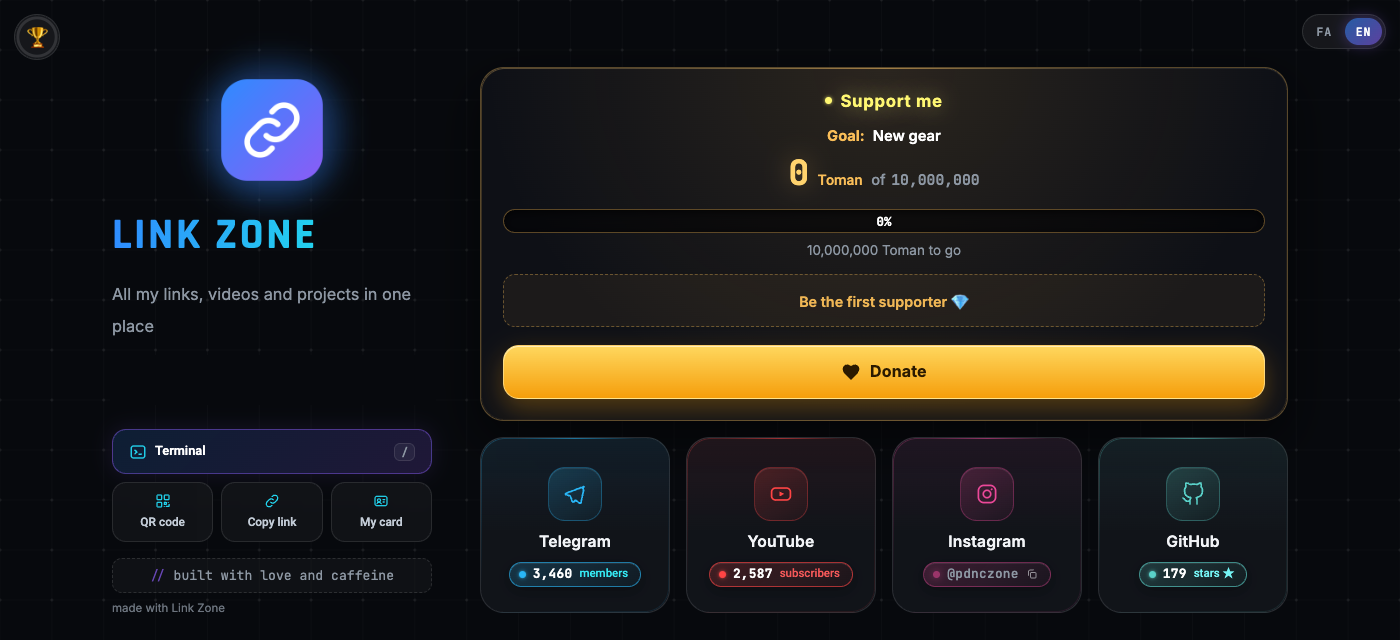
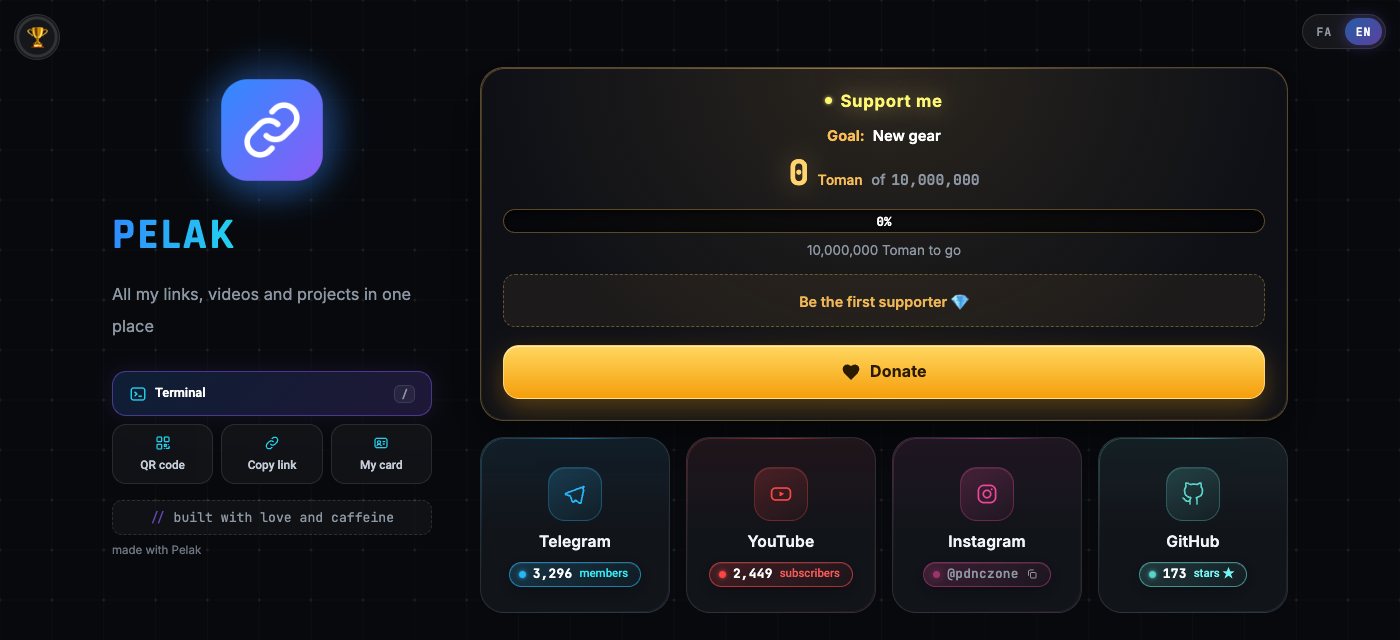
Rename to Pelak

diff --git a/src/worker.js b/src/worker.js
@@ -1,4 +1,4 @@
-// Link Zone — Copyright (c) 2026 PDNC. PolyForm Strict 1.0.0, see LICENSE.md and LICENSE-PERMISSIONS.md
+// Pelak — Copyright (c) 2026 PDNC. PolyForm Strict 1.0.0, see LICENSE.md and LICENSE-PERMISSIONS.md
 // One Cloudflare Worker. Settings live in ../site.config.js
 import SITE from "../site.config.js";
 import HTML from "./home.html";
@@ -1165,7 +1165,7 @@ async function tgApi(token, method, body) {
   }
 }
 async function tgWebhookSecret(token) {
-  const buf = await crypto.subtle.digest("SHA-256", new TextEncoder().encode(token + ":link-zone-webhook"));
+  const buf = await crypto.subtle.digest("SHA-256", new TextEncoder().encode(token + ":pelak-webhook"));
   return [...new Uint8Array(buf)].map((b) => b.toString(16).padStart(2, "0")).join("");
 }
 var tgN = (n) => Number(n || 0).toLocaleString("en-US");
@@ -2224,7 +2224,7 @@ async function handlePendingText(env, ctx, msg) {
 // ===== daily backup / restore =====
 // ---------- daily backup & restore ----------
 async function buildBackup(env) {
-  const out = { app: "link-zone", version: 1, at: new Date().toISOString(), keys: {} };
+  const out = { app: "pelak", version: 1, at: new Date().toISOString(), keys: {} };
   let cursor;
   do {
     const l = await env.STATS_KV.list(cursor ? { cursor } : {});
@@ -2245,7 +2245,7 @@ async function sendBackup(env) {
   const fd = new FormData();
   fd.append("chat_id", chat);
   fd.append("caption", "💾 بکاپ روزانه " + SITE.name + "\n" + Object.keys(b.keys).length + " کلید · " + Math.round(body.length / 1024) + " KB\nبرای بازگردانی: تنظیمات ← بازگردانی بکاپ");
-  fd.append("document", new Blob([body], { type: "application/json" }), "link-zone-backup-" + b.at.slice(0, 10) + ".json");
+  fd.append("document", new Blob([body], { type: "application/json" }), "pelak-backup-" + b.at.slice(0, 10) + ".json");
   try {
     const r = await fetch("https://api.telegram.org/bot" + token + "/sendDocument", { method: "POST", body: fd, signal: AbortSignal.timeout(2e4) });
     return await r.json();
@@ -2278,7 +2278,7 @@ async function restoreFromDocument(env, doc) {
   } catch (e) {
     return { err: "این فایل JSON معتبر نیست." };
   }
-  if (!b || b.app !== "link-zone" || !b.keys) return { err: "این فایل بکاپ این سایت نیست." };
+  if (!b || b.app !== "pelak" || !b.keys) return { err: "این فایل بکاپ این سایت نیست." };
   await env.STATS_KV.put("tg:restore", JSON.stringify(b), { expirationTtl: 3600 });
   return { b };
 }
@@ -3299,7 +3299,7 @@ async function fetchGitHub(env) {
   }
 }
 async function fetchGitHubApi(env) {
-  const headers = { "User-Agent": "link-zone/1.0", "Accept": "application/vnd.github+json" };
+  const headers = { "User-Agent": "pelak/1.0", "Accept": "application/vnd.github+json" };
   const ghToken = getEnv(env, "GITHUB_TOKEN");
   if (ghToken) headers["Authorization"] = "Bearer " + ghToken;
   let total = 0;

diff --git a/public/app.js b/public/app.js
@@ -1,4 +1,4 @@
-// Link Zone — Copyright (c) 2026 PDNC. See LICENSE.md and LICENSE-PERMISSIONS.md
+// Pelak — Copyright (c) 2026 PDNC. See LICENSE.md and LICENSE-PERMISSIONS.md
 (function(){
   // Settings come from site.config.js (the server puts them in window.SITE)
   var SITE = window.SITE;
@@ -604,7 +604,7 @@
   var OPEN_TARGETS = SITE.links.map(function(l){ return l.id; }).concat(off('project') ? [] : ['project']);
   var TERM_ALIAS = { tg: 'telegram', yt: 'youtube', ig: 'instagram', gh: 'github' };
   var TERM_HELP = [
-    ['help', 'show this list'], ['whoami', 'who is behind this zone'], ['links', 'all my links'],
+    ['help', 'show this list'], ['whoami', 'who is behind this page'], ['links', 'all my links'],
     ['stats', 'live numbers: members, subscribers, stars'], ['latest', 'latest YouTube videos'],
     ['posts', 'latest Telegram posts'], ['project', 'featured project'],
     ['open <name>', 'open a link: ' + OPEN_TARGETS.join(', ')],
@@ -718,7 +718,7 @@
         ['GitHub', statsData ? num(statsData.github) + ' stars' : '…'],
         ['Language', lang], ['Uptime', secs + 's (this session)']
       ];
-      termLine(SITE.user + '@zone', 'hl');
+      termLine(SITE.user + '@pelak', 'hl');
       termLine('---------', 'dim');
       for (var i = 0; i < rows.length; i++) termLine([{ t: pad(rows[i][0], 10), c: 'ok' }, rows[i][1]]);
     },
@@ -1149,7 +1149,7 @@
     var steps = [
       function(){ return '<span class="hl">' + esc(SITE.name) + '</span> bootloader v1.0'; },
       function(){ return OK + 'loaded kernel modules'; },
-      function(){ return OK + 'mounted /dev/zone'; },
+      function(){ return OK + 'mounted /dev/pelak'; },
       function(){ return OK + 'started network: tunnel0 up' + (ME && safeTag(ME.colo) ? ' via ' + safeTag(ME.colo) : ''); },
       function(){ return OK + 'resolving ' + esc(location.host) + (ME && safeTag(ME.country) ? ' for ' + safeTag(ME.country) : '') + ' ...'; },
       function(){ return OK + 'reached target: <span class="hl">welcome</span>'; }

diff --git a/site.config.js b/site.config.js
@@ -8,8 +8,8 @@
 // ─────────────────────────────────────────────────────────────────────────────
 export default {
   // ── Who you are ──
-  name: "LINK ZONE", //           big title, browser tab, share preview
-  shortName: "LINKS", //          name under the icon when installed on a phone
+  name: "PELAK", //           big title, browser tab, share preview
+  shortName: "Pelak", //          name under the icon when installed on a phone
   tagline: {
     fa: "اینجا همهی لینکها، ویدیوها و پروژههای من یکجا جمع شده",
     en: "All my links, videos and projects in one place"
@@ -20,7 +20,7 @@ export default {
   },
   signature: "built with love and caffeine", // small line at the bottom of the side bar
   cardSubtitle: "LINKS · VIDEOS · CODE", //     line on the visitor card image
-  showCredit: true, //            small "made with Link Zone" link; false removes it
+  showCredit: true, //            small "made with Pelak" link; false removes it
 
   // ── Languages ──
   languages: ["fa", "en"], //     ["fa"] or ["en"] for a single language (hides the switch)
@@ -81,7 +81,7 @@ export default {
   },
   hubCountry: "DE", //     lines on the globe fly to this country (two-letter code)
   hubLabel: "HQ",
-  terminalUser: "guest", // shown as guest@zone in the terminal
+  terminalUser: "guest", // shown as guest@pelak in the terminal
 
   // ── Optional ──
   securityContact: "" //   "mailto:you@example.com" or "https://t.me/you", used in /.well-known/security.txt

diff --git a/src/home.html b/src/home.html
@@ -104,7 +104,7 @@
         </button>
       </div>
       <div class="sig"><span class="rem">//</span> {{signature}}</div>
-      <a class="credit" href="https://github.com/pdnczone/link-zone" target="_blank" rel="noopener">made with Link Zone</a>
+      <a class="credit" href="https://github.com/pdnczone/pelak" target="_blank" rel="noopener">made with Pelak</a>
     </footer>
     </div>
 
@@ -313,7 +313,7 @@
     <div class="term-bar">
       <button type="button" class="term-dot r" id="termClose" aria-label="Close terminal"></button>
       <i class="term-dot y"></i><i class="term-dot g"></i>
-      <span class="term-title">{{terminalUser}}@zone: ~</span>
+      <span class="term-title">{{terminalUser}}@pelak: ~</span>
     </div>
     <div class="term-out" id="termOut" role="log" aria-live="polite"></div>
     <form class="term-in" id="termForm" autocomplete="off">

diff --git a/public/grid.js b/public/grid.js
@@ -1,4 +1,4 @@
-// Link Zone — Copyright (c) 2026 PDNC. See LICENSE.md and LICENSE-PERMISSIONS.md
+// Pelak — Copyright (c) 2026 PDNC. See LICENSE.md and LICENSE-PERMISSIONS.md
 (function(){
   var canvas = document.getElementById('kinetic-grid');
   var ctx = canvas.getContext('2d');

diff --git a/public/style.css b/public/style.css
@@ -1,4 +1,4 @@
-/* Link Zone — Copyright (c) 2026 PDNC. See LICENSE.md and LICENSE-PERMISSIONS.md */
+/* Pelak — Copyright (c) 2026 PDNC. See LICENSE.md and LICENSE-PERMISSIONS.md */
 :root{
   --bg: #07090d;
   --accent-1: #2f8bff;

diff --git a/LICENSE-PERMISSIONS.md b/LICENSE-PERMISSIONS.md
@@ -1,39 +1,39 @@
-# Link Zone: additional permissions
+# Pelak: additional permissions
 
 Copyright (c) 2026 PDNC (https://github.com/pdnczone). All rights reserved except as granted below.
 
-Link Zone is licensed under the [PolyForm Strict License 1.0.0](LICENSE.md). The licensor, PDNC, also grants you the permissions below. They add to that license, and everything it does not allow stays forbidden.
+Pelak is licensed under the [PolyForm Strict License 1.0.0](LICENSE.md). The licensor, PDNC, also grants you the permissions below. They add to that license, and everything it does not allow stays forbidden.
 
 ## You may
 
-1. **Run your own page.** Use Link Zone to run a link page for yourself, your channel, your project or your own business, including a page that has a donation card, advertisements or links to things you sell.
+1. **Run your own page.** Use Pelak to run a link page for yourself, your channel, your project or your own business, including a page that has a donation card, advertisements or links to things you sell.
 2. **Personalise it.** For that page, change only these:
    - `site.config.js`, and `wrangler.jsonc` to set the worker name, bindings and domain
    - the images `public/logo.png` and `public/og.png`
    - the tips in `public/tips.js`
    - settings and secrets in your Cloudflare account
 3. **Keep your copy on GitHub.** Keep a copy made with the Deploy button, the template button or a fork, public or private, so that your page can be deployed. Keep `LICENSE.md` and this file in it, unchanged.
-4. **Update.** Merge newer versions of Link Zone into your copy.
+4. **Update.** Merge newer versions of Pelak into your copy.
 5. **Contribute.** Change the code in a fork for the sole purpose of testing it and sending it to this repository as a pull request.
 
 ## You may not, without written permission from PDNC
 
-- sell, rent, sublicense or charge for Link Zone or any part of it
-- sell the setup, hosting or customisation of Link Zone, or offer it to others as a paid or free service
+- sell, rent, sublicense or charge for Pelak or any part of it
+- sell the setup, hosting or customisation of Pelak, or offer it to others as a paid or free service
 - change any other file, or make and use a modified version, other than for a pull request
-- publish or share Link Zone or a modified version anywhere else, or under another name
+- publish or share Pelak or a modified version anywhere else, or under another name
 - remove or change the license files or the copyright notice
 - use the name, logo or branding of PDNC in a way that suggests PDNC made or endorses your page
 
-The "made with Link Zone" link may be turned off with `showCredit: false`.
+The "made with Pelak" link may be turned off with `showCredit: false`.
 
 ## Asking for permission
 
-Open an issue at https://github.com/pdnczone/link-zone/issues and describe what you want to do. Permission counts only when PDNC gives it in writing.
+Open an issue at https://github.com/pdnczone/pelak/issues and describe what you want to do. Permission counts only when PDNC gives it in writing.
 
 ## Contributions
 
-By sending a pull request you confirm that you wrote the change or may submit it, and you give PDNC a perpetual, worldwide, free and irrevocable right to use, change, publish, license (also under other terms) and sell it as part of Link Zone. You keep the copyright of your contribution.
+By sending a pull request you confirm that you wrote the change or may submit it, and you give PDNC a perpetual, worldwide, free and irrevocable right to use, change, publish, license (also under other terms) and sell it as part of Pelak. You keep the copyright of your contribution.
 
 ## Persian summary / خلاصهی فارسی
 

diff --git a/README.md b/README.md
@@ -1,14 +1,14 @@
 <div align="center">
 
-<img src="public/logo.png" width="96" alt="Link Zone" />
+<img src="public/logo.png" width="96" alt="Pelak" />
 
-# Link Zone
+# Pelak
 
 **Your own animated link page. Free, on Cloudflare, with one config file.**
 
-[فارسی](README.fa.md) · [Live example](https://pdnczone.ir) · [Report a bug](https://github.com/pdnczone/link-zone/issues)
+[فارسی](README.fa.md) · [Live example](https://pdnczone.ir) · [Report a bug](https://github.com/pdnczone/pelak/issues)
 
-[![Deploy to Cloudflare](https://deploy.workers.cloudflare.com/button)](https://deploy.workers.cloudflare.com/?url=https://github.com/pdnczone/link-zone)
+[![Deploy to Cloudflare](https://deploy.workers.cloudflare.com/button)](https://deploy.workers.cloudflare.com/?url=https://github.com/pdnczone/pelak)
 
 <img src="docs/preview-en.png" alt="Screenshot" />
 
@@ -42,8 +42,8 @@ You need a free [Cloudflare](https://dash.cloudflare.com/sign-up) account and a 
 You need [Node.js](https://nodejs.org) 22 or newer.
 
 ```bash
-git clone https://github.com/pdnczone/link-zone.git
-cd link-zone
+git clone https://github.com/pdnczone/pelak.git
+cd pelak
 npm install
 # edit site.config.js, then look at it on http://localhost:8787
 npm run dev
@@ -106,7 +106,7 @@ To start the bot, set the two Telegram secrets and `STATS_PASSWORD`, then open `
 Deployed with one click: in your copy, add this repository as a second remote and merge.
 
 ```bash
-git remote add upstream https://github.com/pdnczone/link-zone.git
+git remote add upstream https://github.com/pdnczone/pelak.git
 git fetch upstream
 git merge upstream/main --allow-unrelated-histories
 ```

diff --git a/README.fa.md b/README.fa.md
@@ -1,14 +1,14 @@
 <div dir="rtl" align="center">
 
-<img src="public/logo.png" width="96" alt="Link Zone" />
+<img src="public/logo.png" width="96" alt="Pelak" />
 
-# Link Zone
+# Pelak | پلاک
 
 **صفحهی لینک شخصی خودت؛ متحرک، رایگان، روی کلودفلر و فقط با یک فایل تنظیمات.**
 
-[English](README.md) · [نمونهی زنده](https://pdnczone.ir) · [گزارش مشکل](https://github.com/pdnczone/link-zone/issues)
+[English](README.md) · [نمونهی زنده](https://pdnczone.ir) · [گزارش مشکل](https://github.com/pdnczone/pelak/issues)
 
-[![Deploy to Cloudflare](https://deploy.workers.cloudflare.com/button)](https://deploy.workers.cloudflare.com/?url=https://github.com/pdnczone/link-zone)
+[![Deploy to Cloudflare](https://deploy.workers.cloudflare.com/button)](https://deploy.workers.cloudflare.com/?url=https://github.com/pdnczone/pelak)
 
 <img src="docs/preview-fa.png" alt="پیشنمایش" />
 
@@ -46,8 +46,8 @@
 </div>
 
 ```bash
-git clone https://github.com/pdnczone/link-zone.git
-cd link-zone
+git clone https://github.com/pdnczone/pelak.git
+cd pelak
 npm install
 # فایل site.config.js رو ویرایش کن و نتیجه رو روی http://localhost:8787 ببین
 npm run dev
@@ -120,7 +120,7 @@ sections: { snake: false, map: false }
 </div>
 
 ```bash
-git remote add upstream https://github.com/pdnczone/link-zone.git
+git remote add upstream https://github.com/pdnczone/pelak.git
 git fetch upstream
 git merge upstream/main --allow-unrelated-histories
 ```

diff --git a/AGENTS.md b/AGENTS.md
@@ -1,4 +1,4 @@
-# Link Zone — notes for AI coding tools
+# Pelak — notes for AI coding tools
 
 A link page on one Cloudflare Worker with static assets. No framework, no build step.
 
